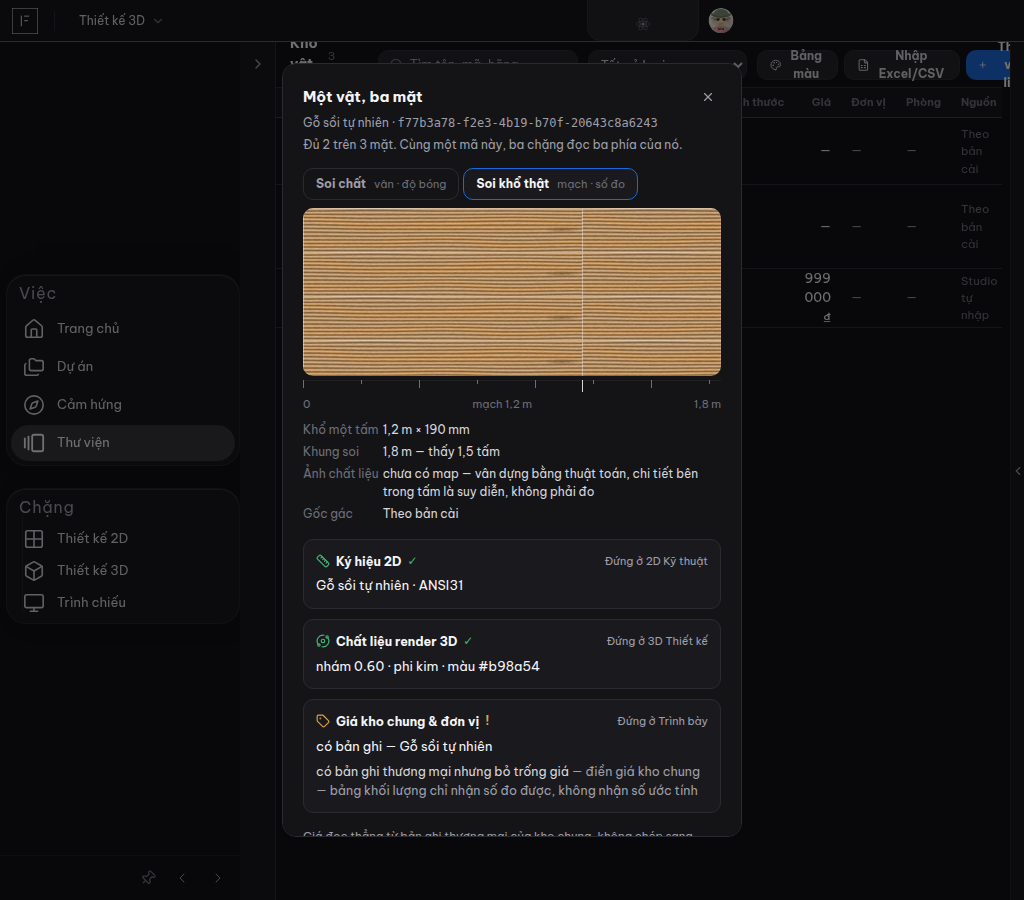
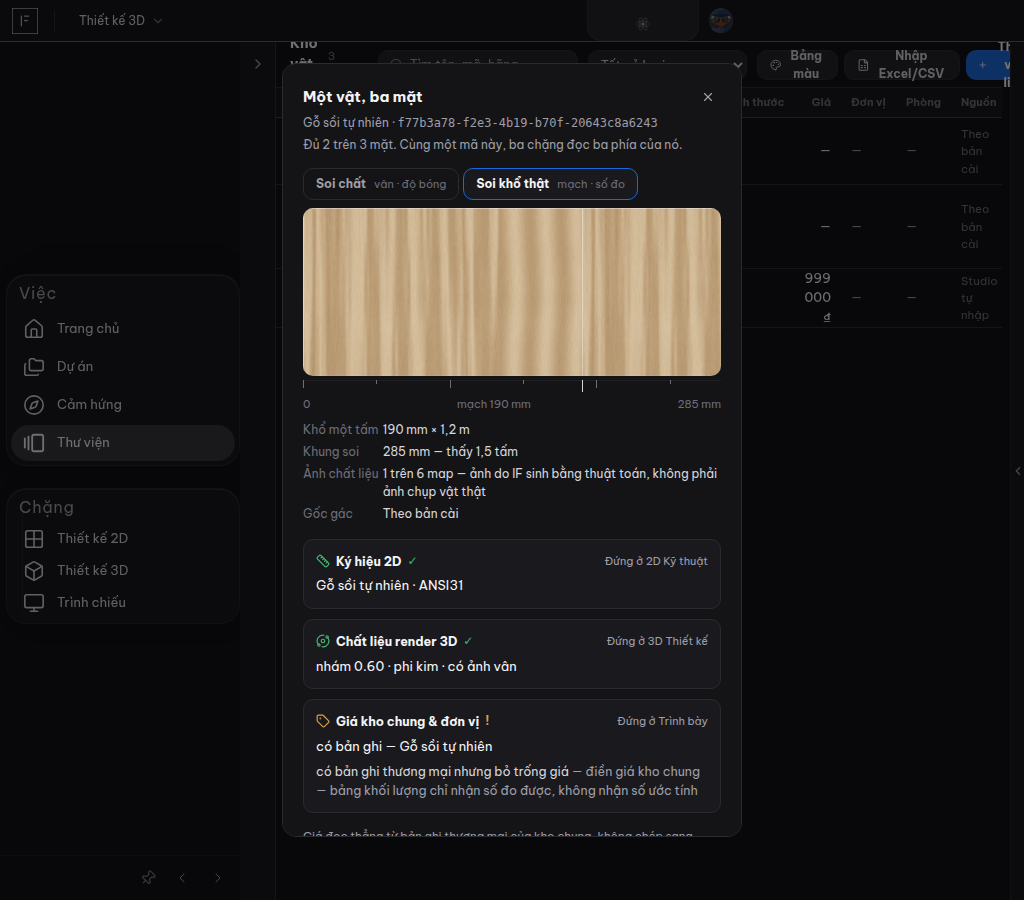
evidence(vat-lieu): thay bộ ảnh bằng bản có VÂN THẬT + 2 ảnh proof UV
Bộ ảnh commit trước chụp lúc vân còn là procedural. Thay bằng bản chụp sau khi
hai món ship sẵn nhận ảnh vân thật, cộng hai khung chứng minh UV không nói dối.

`sau/` 13 ảnh · 3 tệp số đo:
  01-04 · SCAN → JUDGE gỗ sồi → JUDGE gỗ óc chó → INSPECT (tấm 190 mm, mạch thấy được)
  05-07 · theme sáng + khổ hẹp 1024
  08    · chưa đăng nhập: đếm và thân trang KHỚP nhau
  09-11 · WebGL tắt: kho vẫn dùng được · ô hỏng tự nói bằng CHỮ · dấu `!` tới được cây trợ năng
  12-13 · ẢNH CHẨN ĐOÁN: hướng đúng (`1` trên-trái · `IF` đọc xuôi · tam giác chỉ lên),
          rồi thoát hẳn mở lại ⇒ **Y HỆT**

Hai phép nghiệm thu để RIÊNG, cố ý không gộp: ảnh chẩn đoán chứng minh *máy không
nói dối về UV*; ảnh gỗ chứng minh *người dùng phán được thớ*. Ảnh gỗ hỏng kiểu gì
cũng "trông vẫn giống gỗ" nên nó là ảnh dò tồi — nhưng lại là ảnh DÙNG tốt.

Claude-Session: https://claude.ai/code/session_01U2UxY4LmQattzfXbrX5rUZ

Changed region(s): [[0.2812, 0.2178, 0.7188, 0.56], [0.4375, 0.7156, 0.5312, 0.7467], [0.6875, 0.0, 0.7188, 0.0311]]

diff --git a/lib/materials/nen-van.ts b/lib/materials/nen-van.ts
@@ -18,6 +18,12 @@
  *   ⇒ **INSPECT thì ĐƯỢC**, vì thứ nó khẳng định là *"khung soi rộng bằng này, một tấm lặp
  *     bằng kia, nên mạch rơi vào đây"* — cả ba con số đến thẳng từ `uvScaleMm`, và đó đúng là
  *     phép lát mà engine 3D sẽ dùng. Chi tiết BÊN TRONG tấm vẫn là suy diễn, và panel nói ra.
+ *   ⚠ BỔ SUNG 05/09 — hai món ship sẵn nay có **ẢNH VÂN THẬT** (`baseColorMapUrl`), tức đã
+ *     hiệu chuẩn theo `uvScaleMm`. Với chúng, nấc JUDGE khai được ĐÚNG MỘT con số mm: bề rộng
+ *     **trọn một chu kỳ lặp** — vì nấc này bày `cover` một tấm, nên "một tấm 190 mm ngang" là
+ *     phát biểu đúng theo định nghĩa, không phải ước lượng. Nó vẫn KHÔNG vẽ thước, và vẫn
+ *     KHÔNG khai mm cho vân procedural. Ranh giới không đổi: **khai cái mình đo được, im về
+ *     cái mình chỉ vẽ ra.**
  *
  * 📄 BẢN VẼ CỦA VIỆC NÀY: `docs/delivery/SPEC-VAT-LIEU-LAT-CAT-DOC.md` §5.5 (hợp đồng ngưỡng) +
  * §6 mục V5 (thứ tự thi công). Trỏ ngược lại là CỐ Ý: bản vẽ đó hôm nay **không tệp nào trỏ
